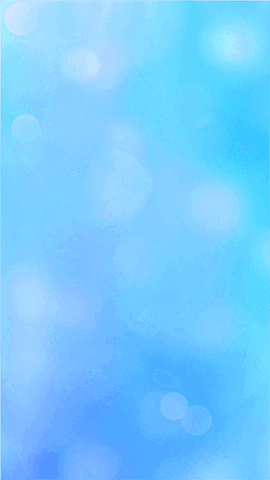
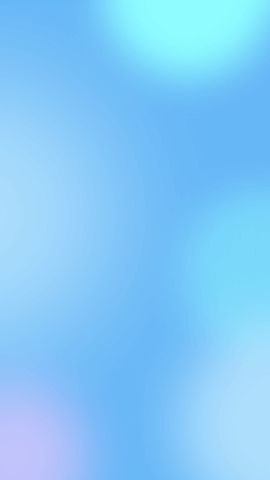
pt2-accurate backgrounds

diff --git a/game.js b/game.js
@@ -38,6 +38,7 @@ const loadSampleJsonBtn = document.getElementById('load-sample-json-btn');
 const clearSongBtn = document.getElementById('clear-song-btn');
 const autoplayToggle = document.getElementById('settings-autoplay');
 const reviveSlowdownToggle = document.getElementById('settings-revive-slowdown');
+const bgChangeToggle = document.getElementById('settings-bg-change');
 const customSpeedInput = document.getElementById('settings-custom-speed');
 const customSpeedDisplay = document.getElementById('custom-speed-display');
 const customSongUpload = document.getElementById('custom-song-upload');
@@ -111,6 +112,7 @@ let highScore = parseFloat(localStorage.getItem('opentile_highscore') || '0');
 let keybinds = JSON.parse(localStorage.getItem('opentile_keybinds') || '["KeyD","KeyF","KeyJ","KeyK"]');
 let autoplayEnabled = localStorage.getItem('opentile_autoplay') === 'true';
 let reviveSlowdownEnabled = localStorage.getItem('opentile_revive_slowdown') !== 'false'; // default true
+let bgChangeEnabled = localStorage.getItem('opentile_bg_change') !== 'false'; // default true
 let isReviveSlowdownActive = false;
 let reviveSlowdownStartTime = 0;
 let isPostReviveState = false;
@@ -762,6 +764,7 @@ function resumeAfterRevive() {
   if (gameBoardWrapper) {
     gameBoardWrapper.classList.add('game-playing');
     gameBoardWrapper.classList.remove('game-bg-transition-active');
+    applyGameplayBackground();
   }
 
   updatePauseButtonVisibility();
@@ -834,25 +837,37 @@ function getGameplayBackgroundIndex() {
   return 1;
 }
 
-function updateGameplayBackground() {
+function applyGameplayBackground() {
   if (!gameBoardWrapper) return;
 
-  const targetBackgroundIndex = getGameplayBackgroundIndex();
-  
-  if (targetBackgroundIndex === currentGameplayBackgroundIndex) {
+  // When background changes are disabled, force the fallback background (bgani_fallback)
+  if (!bgChangeEnabled) {
+    gameBoardWrapper.classList.remove('bg-level-2', 'bg-level-3');
+    gameBoardWrapper.classList.add('bg-level-fallback');
+    currentGameplayBackgroundIndex = 0;
     return;
   }
 
+  const targetBackgroundIndex = getGameplayBackgroundIndex();
+
   // Use CSS classes for background switching (more performant than inline styles)
-  gameBoardWrapper.classList.remove('bg-level-2', 'bg-level-3');
-  
+  gameBoardWrapper.classList.remove('bg-level-2', 'bg-level-3', 'bg-level-fallback');
+
   if (targetBackgroundIndex === 2) {
     gameBoardWrapper.classList.add('bg-level-2');
   } else if (targetBackgroundIndex === 3) {
     gameBoardWrapper.classList.add('bg-level-3');
   }
-  
+
   currentGameplayBackgroundIndex = targetBackgroundIndex;
+}
+
+function updateGameplayBackground() {
+  if (!gameBoardWrapper) return;
+
+  // Force reapplication (e.g. when the background was shown before game start)
+  currentGameplayBackgroundIndex = -1;
+  applyGameplayBackground();
 }
 
 function unexpected(str) {
@@ -1574,6 +1589,7 @@ async function preloadAssets() {
 function loadSettings() {
   if (autoplayToggle) autoplayToggle.checked = autoplayEnabled;
   if (reviveSlowdownToggle) reviveSlowdownToggle.checked = reviveSlowdownEnabled;
+  if (bgChangeToggle) bgChangeToggle.checked = bgChangeEnabled;
   if (playerNameText) playerNameText.textContent = playerName;
   updateTpsDisplayColor();
 }
@@ -1615,6 +1631,7 @@ function updateSettingsUI() {
   }
   if (autoplayToggle) autoplayToggle.checked = autoplayEnabled;
   if (reviveSlowdownToggle) reviveSlowdownToggle.checked = reviveSlowdownEnabled;
+  if (bgChangeToggle) bgChangeToggle.checked = bgChangeEnabled;
   
   // Update language pill status
   updateLanguageSelection();
@@ -1658,6 +1675,10 @@ function saveSettingsToStorage() {
   if (reviveSlowdownToggle) {
     reviveSlowdownEnabled = reviveSlowdownToggle.checked;
     localStorage.setItem('opentile_revive_slowdown', String(reviveSlowdownEnabled));
+  }
+  if (bgChangeToggle) {
+    bgChangeEnabled = bgChangeToggle.checked;
+    localStorage.setItem('opentile_bg_change', String(bgChangeEnabled));
   }
   if (customSpeedInput) {
     let value = parseFloat(customSpeedInput.value);
@@ -2523,6 +2544,7 @@ async function loadSongFromData(songData) {
     // Show background immediately when song is loaded
     if (gameBoardWrapper) {
       gameBoardWrapper.classList.add('game-playing');
+      applyGameplayBackground();
     }
   } catch (err) {
     console.error(err);
@@ -2557,6 +2579,7 @@ function loadSongFromText(text, label) {
   // Show background immediately when song is loaded
   if (gameBoardWrapper) {
     gameBoardWrapper.classList.add('game-playing');
+    applyGameplayBackground();
   }
 }
 
@@ -3074,6 +3097,7 @@ async function finishRun(showLibrary = false) {
   if (gameBoardWrapper) {
     gameBoardWrapper.classList.add('game-playing');
     gameBoardWrapper.classList.remove('game-bg-transition-active');
+    applyGameplayBackground();
   }
   updatePauseButtonVisibility();
 
@@ -5410,6 +5434,7 @@ function continueFromPause() {
     // Preserve the loaded background when resuming from pause.
     gameBoardWrapper.classList.add('game-playing');
     gameBoardWrapper.classList.remove('game-bg-transition-active');
+    applyGameplayBackground();
   }
 
   updatePauseButtonVisibility();
@@ -5568,6 +5593,7 @@ function togglePause() {
     // Keep the current gameplay background visible while paused.
     gameBoardWrapper.classList.add('game-playing');
     gameBoardWrapper.classList.remove('game-bg-transition-active');
+    applyGameplayBackground();
   }
   updatePauseButtonVisibility();
   playMenuLoopCue();
@@ -5812,6 +5838,7 @@ function startClassicMode() {
   // Show background immediately
   if (gameBoardWrapper) {
     gameBoardWrapper.classList.add('game-playing');
+    applyGameplayBackground();
   }
 }
 
@@ -6493,6 +6520,20 @@ document.getElementById('revive-slowdown-pill')?.addEventListener('click', () =>
   // Update checkbox if it exists
   if (reviveSlowdownToggle) {
     reviveSlowdownToggle.checked = reviveSlowdownEnabled;
+  }
+});
+
+document.getElementById('bg-change-pill')?.addEventListener('click', () => {
+  bgChangeEnabled = !bgChangeEnabled;
+  localStorage.setItem('opentile_bg_change', String(bgChangeEnabled));
+  const bgChangeStatus = document.getElementById('bg-change-status');
+  bgChangeStatus.textContent = bgChangeEnabled ? (i18n?.t('status_on') || 'On') : (i18n?.t('status_off') || 'Off');
+  if (bgChangeToggle) {
+    bgChangeToggle.checked = bgChangeEnabled;
+  }
+  // Apply the background change immediately (force fallback if now disabled)
+  if (isGameLoaded) {
+    updateGameplayBackground();
   }
 });
 
@@ -7609,7 +7650,10 @@ async function loadClassCourse() {
     const sharedTopBar = document.getElementById('shared-top-bar');
     if (sharedTopBar) sharedTopBar.classList.add('hidden');
 
-    if (gameBoardWrapper) gameBoardWrapper.classList.add('game-playing');
+    if (gameBoardWrapper) {
+      gameBoardWrapper.classList.add('game-playing');
+      applyGameplayBackground();
+    }
 
   } catch (err) {
     console.error(err);

diff --git a/index.html b/index.html
@@ -271,6 +271,21 @@
                 <span id="revive-slowdown-status" class="text-base font-semibold text-gray-600">On</span>
               </button>
 
+              <!-- Change Backgrounds Pill -->
+              <button id="bg-change-pill"
+                class="settings-pill flex items-center justify-between bg-gray-50 rounded-2xl px-6 py-5 shadow-sm">
+                <div class="flex items-center gap-4">
+                  <svg xmlns="http://www.w3.org/2000/svg" fill="none" viewBox="0 0 24 24" stroke-width="2"
+                    stroke="currentColor" class="w-6 h-6 text-green-500">
+                    <path stroke-linecap="round" stroke-linejoin="round"
+                      d="M2.25 15.75l5.159-5.159a2.25 2.25 0 013.182 0l5.159 5.159m-1.5-1.5l1.409-1.409a2.25 2.25 0 013.182 0l2.909 2.909M2.25 18a2.25 2.25 0 002.25 2.25h15A2.25 2.25 0 0021.75 18V6A2.25 2.25 0 0019.5 3.75H4.5A2.25 2.25 0 002.25 6v12z" />
+                  </svg>
+                  <span class="text-base font-semibold text-gray-800" data-i18n="label_change_backgrounds">Change
+                    Backgrounds</span>
+                </div>
+                <span id="bg-change-status" class="text-base font-semibold text-gray-600">On</span>
+              </button>
+
               <!-- Keybinds Pill -->
               <button id="keybinds-pill"
                 class="settings-pill flex items-center justify-between bg-gray-50 rounded-2xl px-6 py-5 shadow-sm">

diff --git a/style.css b/style.css
@@ -1290,6 +1290,10 @@ body {
   background-image: url('gameImage/bgani_03.png');
 }
 
+.game-playing.bg-level-fallback {
+  background-image: url('gameImage/bgani_fallback.png');
+}
+
 .game-playing > * {
   position: relative;
   z-index: 1;

diff --git a/tailwind.js b/tailwind.js
@@ -1292,6 +1292,10 @@ body {
   background-image: url('gameImage/bgani_03.png');
 }
 
+.game-playing.bg-level-fallback {
+  background-image: url('gameImage/bgani_fallback.png');
+}
+
 .game-playing > * {
   position: relative;
   z-index: 1;